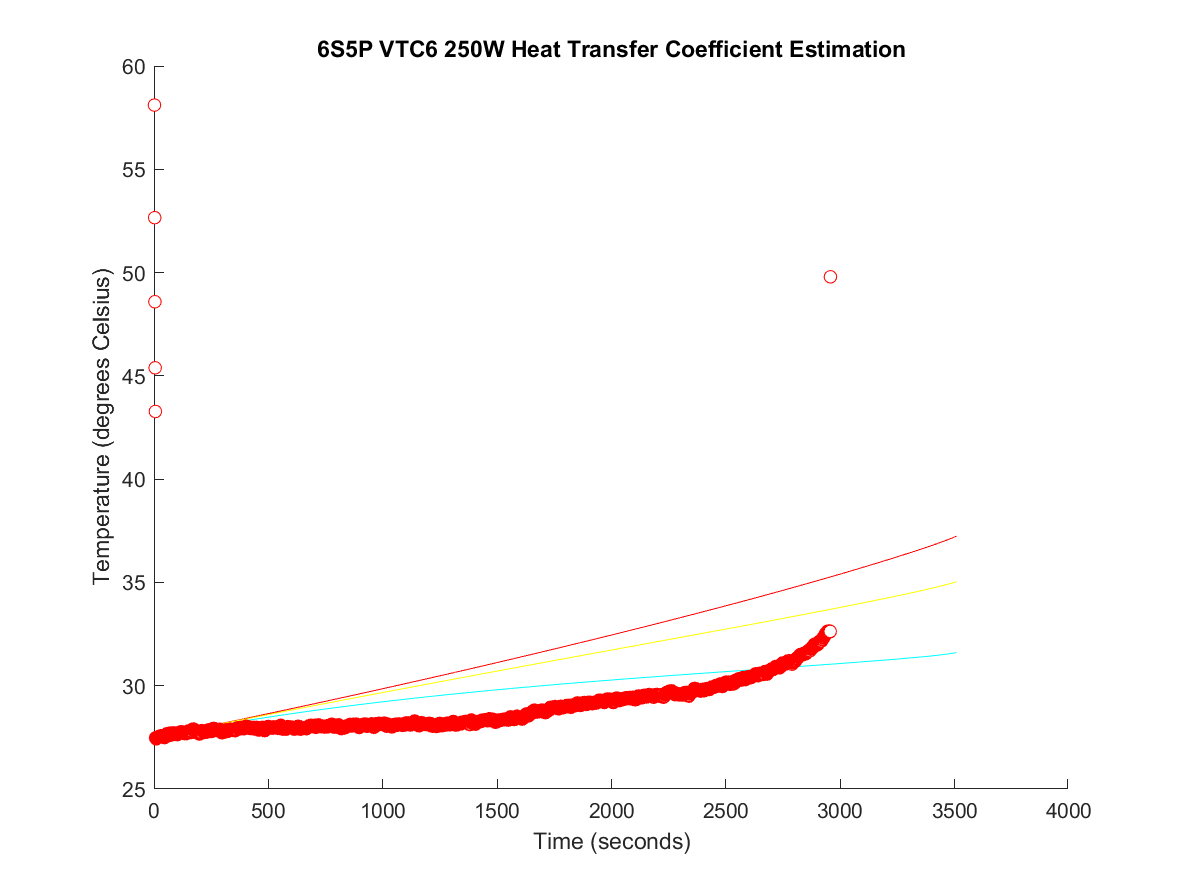
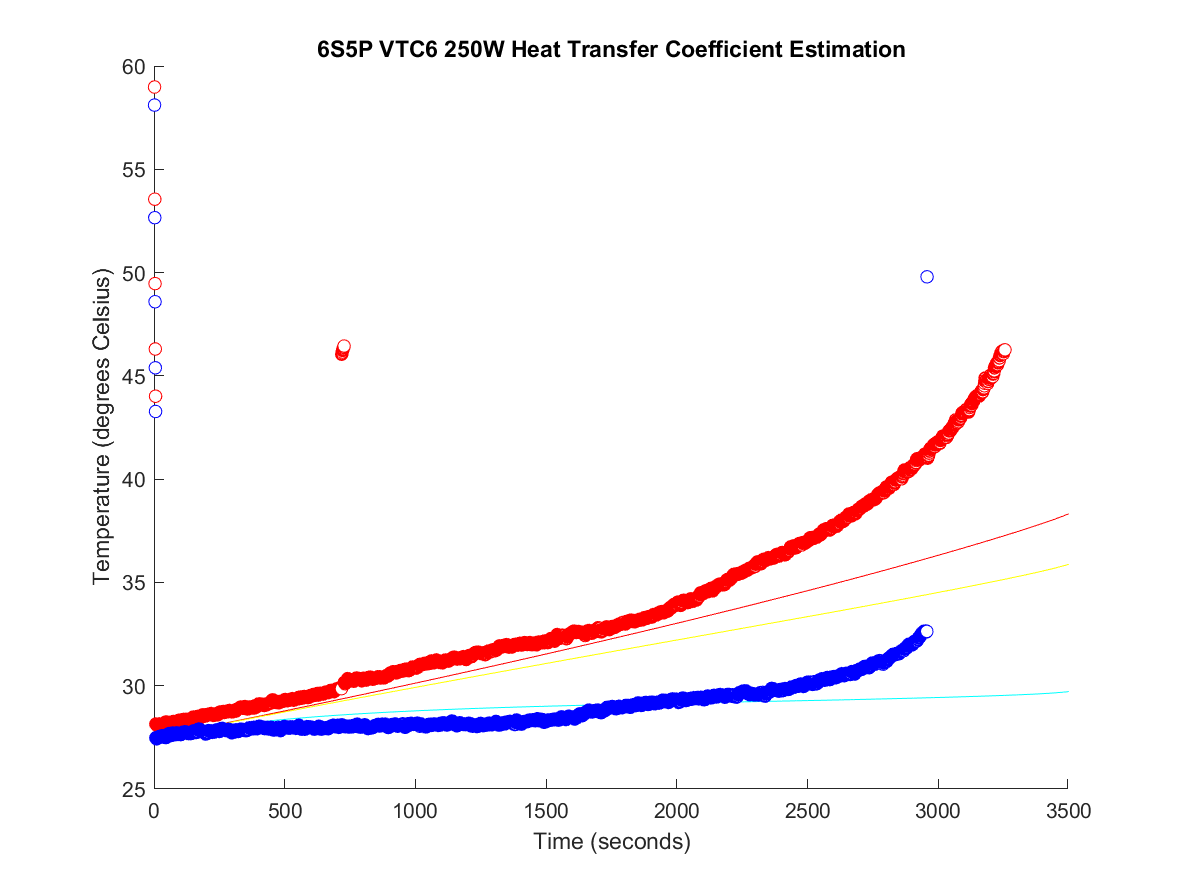
Plotted the results from Test 1 and played around with cell parameters to more accurately reflect the cell temperature.

diff --git a/Heat Transfer Estimation/Test_1_and_2_Heat_Transfer_Estimation.m b/Heat Transfer Estimation/Test_1_and_2_Heat_Transfer_Estimation.m
@@ -1,14 +1,32 @@
 %% Data Import
 
-%Import the cell SOC OCV curve and measured temperature data
-%Unfortunately temps were only being logged on 4 of 6 cells
+% Import the cell SOC OCV curve
 SOCOCV = importdata("Fine Murata VTC6 SOC OCV Curve.txt");
-%Data for pt1 goes until row 721
+
+% Importing & Merging Test 1 data as it was accidentally split into two files
 nofan_6S_data = importdata("../Data/Test 1 - 200 250W 6S5P/tempzener pt1.mat");
-%Data for part 2 goes until row 2538
 nofan_6S_data_pt2 = importdata("../Data/Test 1 - 200 250W 6S5P/tempzener pt2.mat");
+nofan_6S_data.voltageA0(722:3259,:) = nofan_6S_data_pt2.voltageA0(1:2538,:);
+nofan_6S_data.voltageA1(722:3259,:) = nofan_6S_data_pt2.voltageA1(1:2538,:);
+nofan_6S_data.voltageA2(722:3259,:) = nofan_6S_data_pt2.voltageA2(1:2538,:);
+nofan_6S_data.voltageA3(722:3259,:) = nofan_6S_data_pt2.voltageA3(1:2538,:);
+nofan_6S_data.voltageA4(722:3259,:) = nofan_6S_data_pt2.voltageA4(1:2538,:);
+nofan_6S_data.voltageA5(722:3259,:) = nofan_6S_data_pt2.voltageA5(1:2538,:);
+
+
+% Import Test 2 data. Unfortunately only 4 of 6 temp sensors were working
 singlefan_6S_data = importdata("../Data/Test 2 - 250W 6S5P Fan/zenervoltage_withfan.mat");
 
+% Take the moving mean of the diode voltage to smooth out noise
+% For Test 1
+nofan_6S_data.Vdiode1 = movmean(nofan_6S_data.voltageA0, 10);
+nofan_6S_data.Vdiode2 = movmean(nofan_6S_data.voltageA1, 10);
+nofan_6S_data.Vdiode3 = movmean(nofan_6S_data.voltageA2, 10);
+nofan_6S_data.Vdiode4 = movmean(nofan_6S_data.voltageA3, 10);
+nofan_6S_data.Vdiode5 = movmean(nofan_6S_data.voltageA4, 10);
+nofan_6S_data.Vdiode6 = movmean(nofan_6S_data.voltageA5, 10);
+
+%For Test 2
 singlefan_6S_data.Vdiode1 = movmean(singlefan_6S_data.voltageA2, 10);
 singlefan_6S_data.Vdiode2 = movmean(singlefan_6S_data.voltageA3, 10);
 singlefan_6S_data.Vdiode3 = movmean(singlefan_6S_data.voltageA4, 10);
@@ -17,6 +35,16 @@ singlefan_6S_data.Vdiode4 = movmean(singlefan_6S_data.voltageA5, 10);
 % Import the temp-voltage lookup table from the Enepaq datasheet
 % Column 1 is temp (degC) and column 2 is voltage
 enepaq_lookup_table = [0 2.17;5 2.11;10 2.05;15 1.99;20 1.92;25 1.86;30 1.80;35 1.74;40 1.68;45 1.63;50 1.59;55 1.55;60 1.51];
+
+% Use the lookup table and interpolate to determine the cell temperatures
+
+nofan_6S_data.T1 = interp1(enepaq_lookup_table(:,2),enepaq_lookup_table(:,1),nofan_6S_data.Vdiode1);
+nofan_6S_data.T2 = interp1(enepaq_lookup_table(:,2),enepaq_lookup_table(:,1),nofan_6S_data.Vdiode2);
+nofan_6S_data.T3 = interp1(enepaq_lookup_table(:,2),enepaq_lookup_table(:,1),nofan_6S_data.Vdiode3);
+nofan_6S_data.T4 = interp1(enepaq_lookup_table(:,2),enepaq_lookup_table(:,1),nofan_6S_data.Vdiode4);
+nofan_6S_data.T5 = interp1(enepaq_lookup_table(:,2),enepaq_lookup_table(:,1),nofan_6S_data.Vdiode5);
+nofan_6S_data.T6 = interp1(enepaq_lookup_table(:,2),enepaq_lookup_table(:,1),nofan_6S_data.Vdiode6);
+nofan_6S_data.Tavg = (nofan_6S_data.T1 + nofan_6S_data.T2 + nofan_6S_data.T3 + nofan_6S_data.T4 + nofan_6S_data.T5 + nofan_6S_data.T6)/6;
 
 singlefan_6S_data.T1 = interp1(enepaq_lookup_table(:,2),enepaq_lookup_table(:,1),singlefan_6S_data.Vdiode1);
 singlefan_6S_data.T2 = interp1(enepaq_lookup_table(:,2),enepaq_lookup_table(:,1),singlefan_6S_data.Vdiode2);
@@ -28,7 +56,7 @@ singlefan_6S_data.Tavg = (singlefan_6S_data.T1+singlefan_6S_data.T2+singlefan_6S
 
 S_count = 6;                                    % Series configuration of bricks
 Pcount = 5;                                     % Parallel count of cells per brick
-R_cell = 0.0225;                                % Cell internal resistance in Ohm
+R_cell = 0.025;                                % Cell internal resistance in Ohm
 V_initial = 24;                                 % Initial cell voltage
 V_final = 16.4;                                 % Final cell voltage
 Cp_batt = 960;                                  % Cell heat capacity in J/(kg*K)
@@ -46,7 +74,7 @@ T_cell_adiabatic = T_amb;                       % Adiabatic cell temperature
 T_cell_nat = T_amb;                             % Natural convective cooled cell temperature
 T_cell_for = T_amb;                             % Forced convective cooled cell temperature
 htc_nat = 5;                                    % Natural convective cooling coefficient
-htc_for = 20;                                   % Forced convective cooling coefficient
+htc_for = 50;                                   % Forced convective cooling coefficient
 
 time = 1;                                       % Start at time t=1
 predicted_data = zeros(6);                        % Initialize matrix for storing time, heat gen, and temperature
@@ -95,7 +123,8 @@ hold on
 plot(predicted_data(:,1), predicted_data(:,4),'Color','r');     % Plot adiabatic cell temperature
 plot(predicted_data(:,1), predicted_data(:,5),'Color','y');     % Plot natural cooled cell temperature
 plot(predicted_data(:,1), predicted_data(:,6),'Color','c');     % Plot force cooled cell temperature
-plot(predicted_data(:,1),singlefan_6S_data.Tavg(1:length(predicted_data)),'ro','MarkerFaceColor','w');                  % Plot experimental average cell temperature
+plot(predicted_data(:,1), nofan_6S_data.Tavg(1:length(predicted_data)), 'ro','MarkerFaceColor','w');
+plot(predicted_data(:,1),singlefan_6S_data.Tavg(1:length(predicted_data)),'bo','MarkerFaceColor','w');                  % Plot experimental average cell temperature
 title("6S5P VTC6 250W Heat Transfer Coefficient Estimation")
 xlabel("Time (seconds)")
 ylabel('Temperature (degrees Celsius)')
